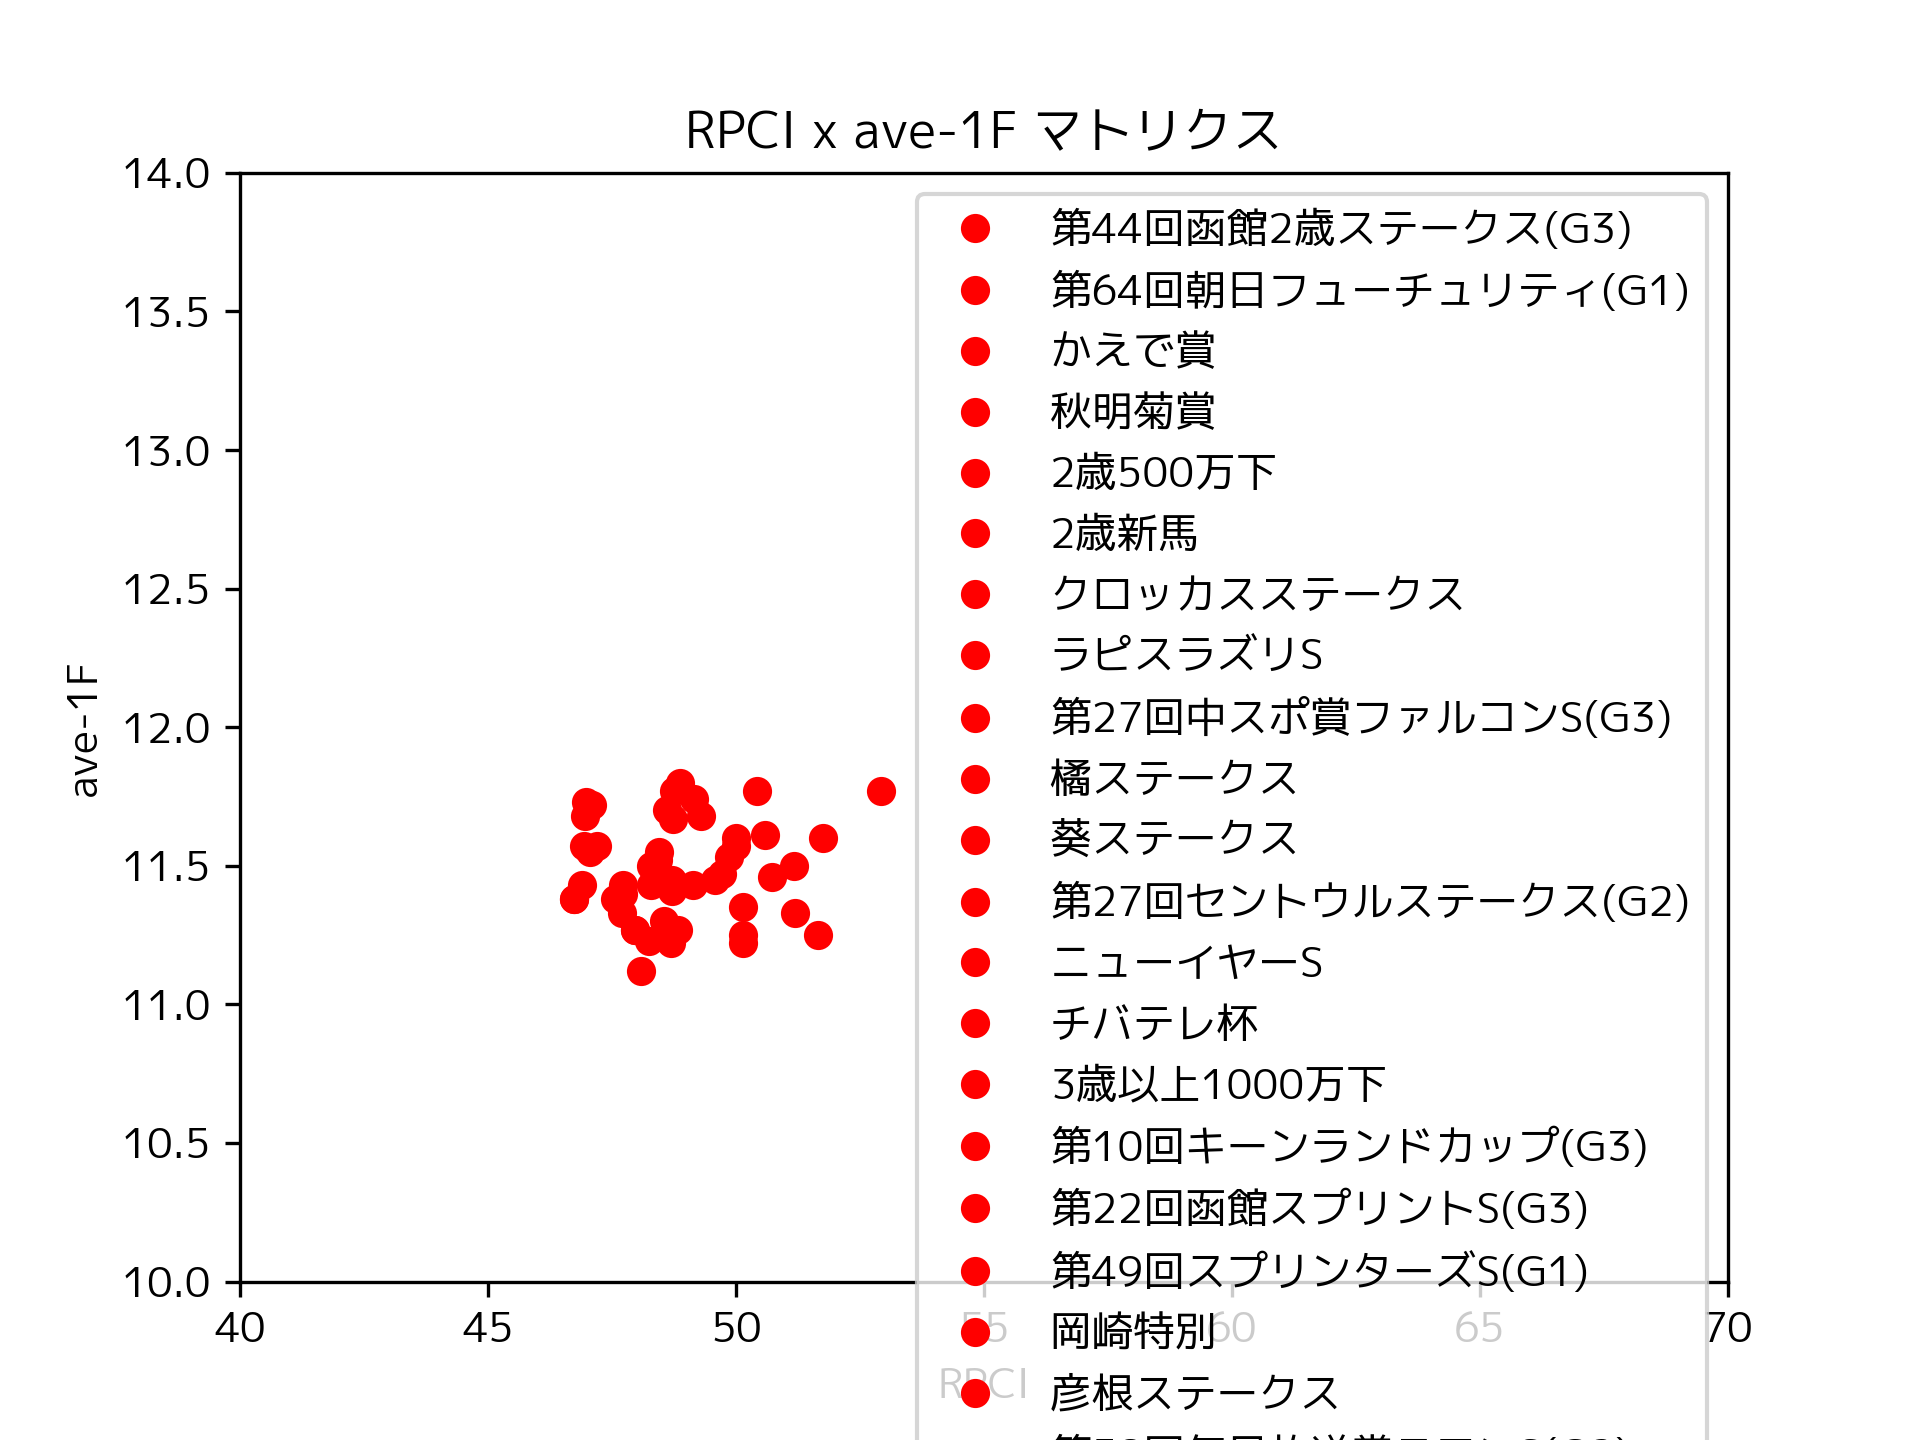
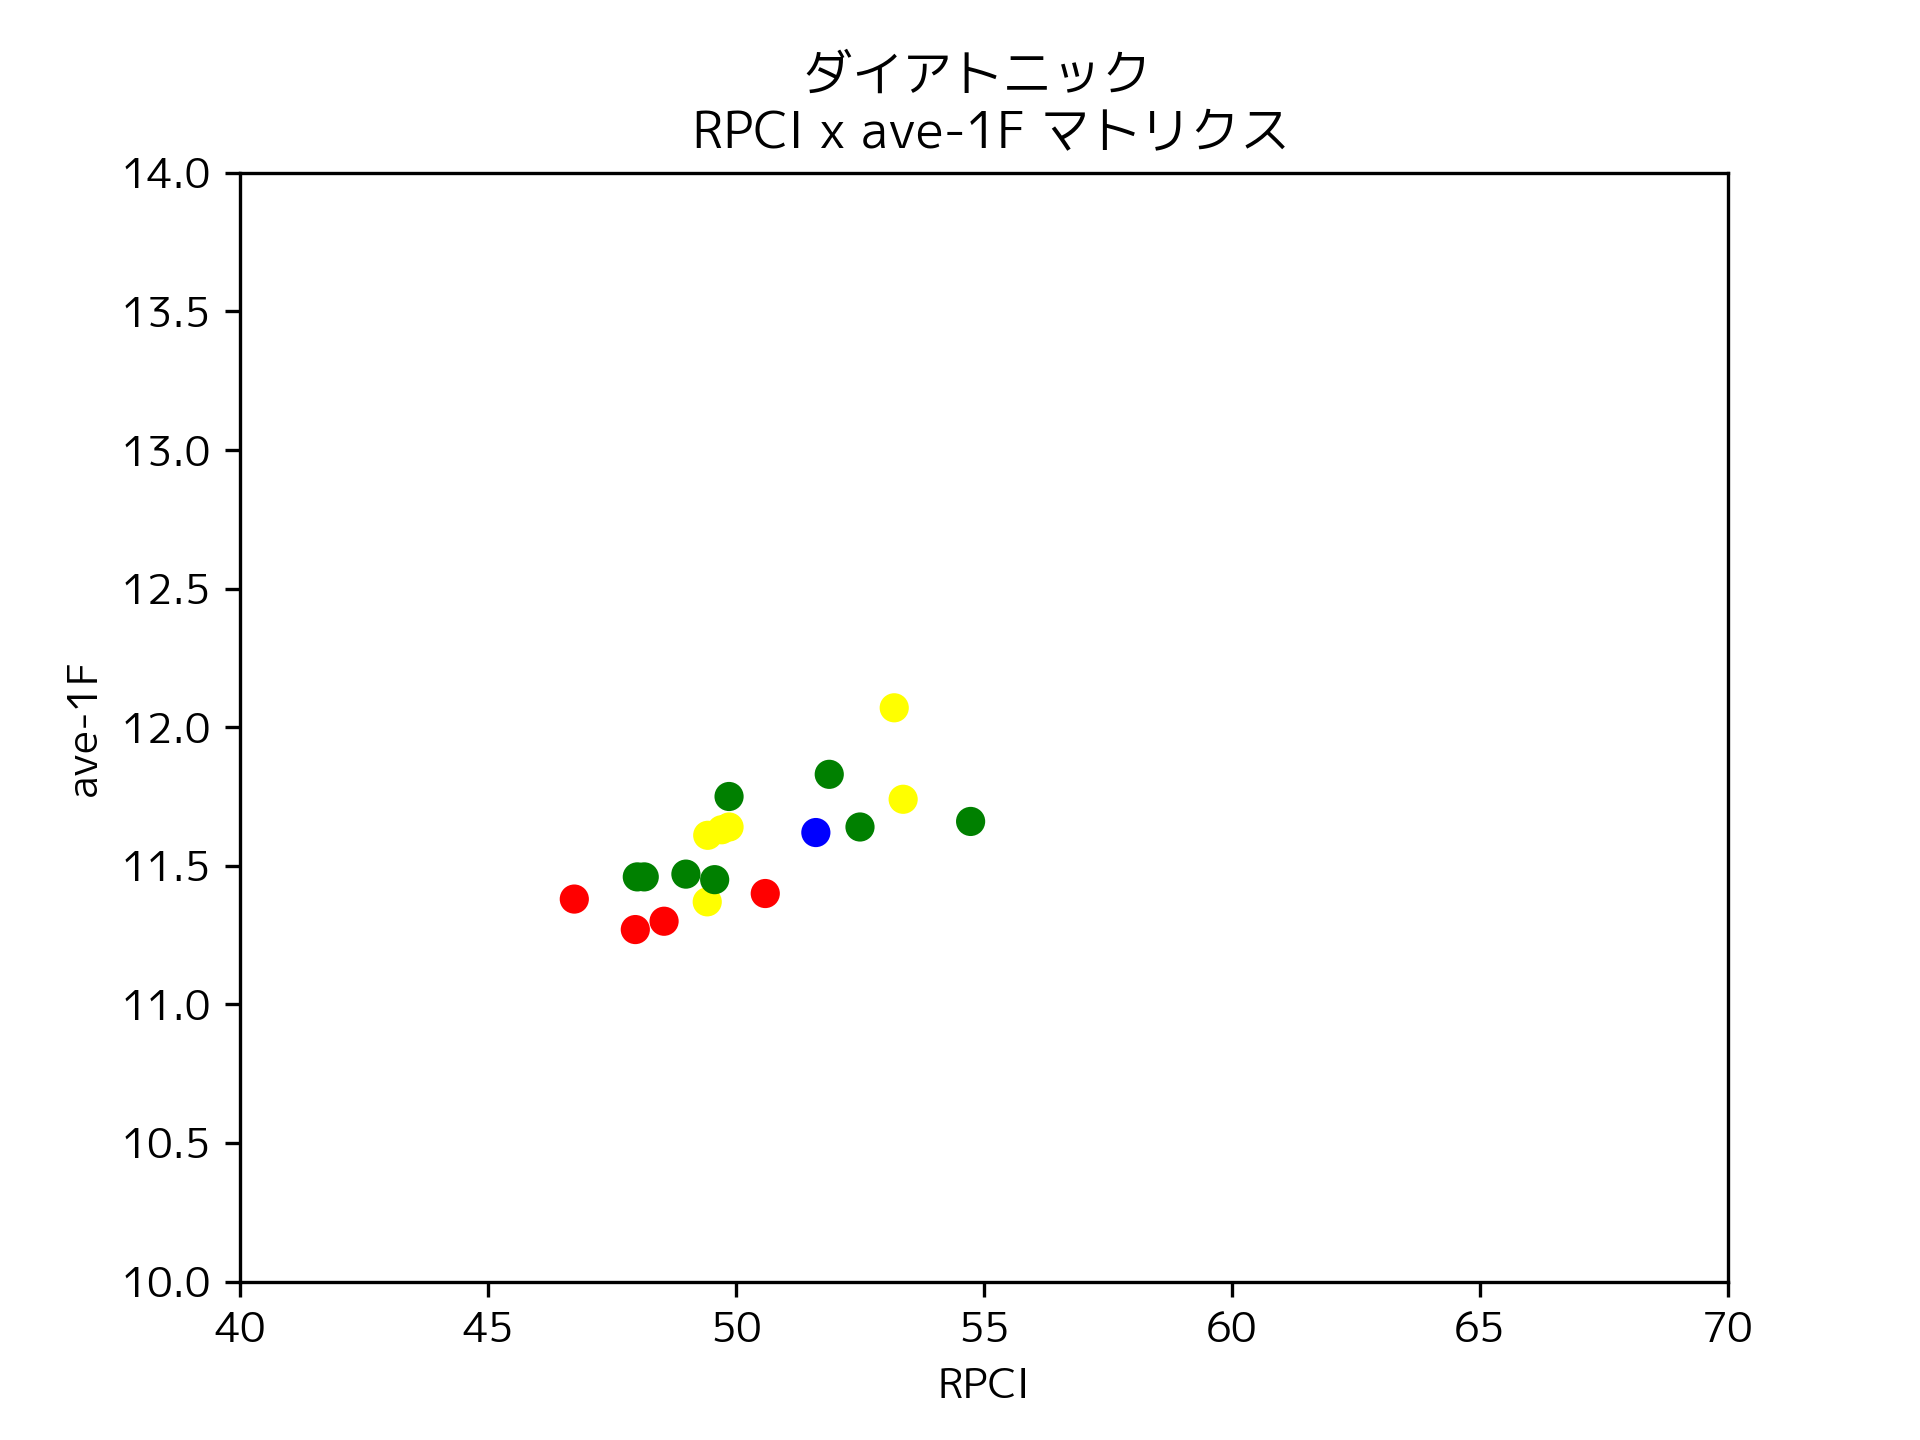
add plot module

diff --git a/analytics/make_rap_and_RPCI_plot_from_hose.py b/analytics/make_rap_and_RPCI_plot_from_hose.py
@@ -7,6 +7,8 @@ from model.hoseRaceResult import HoseRaceResult
 import matplotlib
 import matplotlib.pyplot as plt
 
+import pdb
+
 import MySQLdb
 
 def main():
@@ -25,14 +27,18 @@ def main():
     Session = sessionmaker(bind=engine)
     session = Session()
 
-    # Hose データの取得
-    hoseRaceResults = getHoseRaceResult(session, '2010100690')
+    # HoseRaceResult データの取得
+    hoseRaceResults = getHoseRaceResult(session, '2015103057')
+
+    # RaceResult　データの取得
+    raceResults = getRaceResult(session, "函館スプリント")
 
     # Session クローズ
     session.close()
 
     # グラフにプロットする
-    dataPlot(hoseRaceResults)
+    # dataPlot(hoseRaceResults)
+    dataPlot(hoseRaceResults, raceResults)
 
 def getHoseRaceResult(session, hose_id):
 
@@ -43,25 +49,95 @@ def getHoseRaceResult(session, hose_id):
 
     return hoseRaceResults
 
-def dataPlot(hoseRaceResults):
+def getRaceResult(session, raceName):
+
+    raceResults = session.query(RaceResult).filter(RaceResult.name.like(f'%{raceName}%'))
+
+    return raceResults
+
+def dataPlot(hoseRaceResults, raceResults=None):
 
     """ グラフを描画する """
 
     # 日本語フォントを有効にする
-    matplotlib.rcParams['font.sans-serif'] = 'MigMix 1P'    
+    matplotlib.rcParams['font.sans-serif'] = 'MigMix 1P'   
 
-    # dataをplotする
+    # グラフプロット
+    x = [ hoseRaceResult.RaceResult.RPCI for hoseRaceResult in hoseRaceResults ]
+    y = [ hoseRaceResult.RaceResult.ave_1F for hoseRaceResult in hoseRaceResults ]
+    names = [ f'{hoseRaceResult.RaceResult.date} {hoseRaceResult.RaceResult.name} ' for hoseRaceResult in hoseRaceResults ]
+
+    """ 
+        着差ごとにplotは色分けする 
+        　・1着 -> 黄色
+        　・~0.4s 差 -> 緑
+        　・0.4s~1.0s 差 -> 青
+        　・1.0s〜 差 -> 灰色    
+    """
+
+    colorTbl = []
     for hoseRaceResult in hoseRaceResults:
-        plt.plot(hoseRaceResult.RaceResult.RPCI, hoseRaceResult.RaceResult.ave_1F, 'ro', label=hoseRaceResult.RaceResult.name)
+        if hoseRaceResult.HoseRaceResult.rank == '1':
+            colorTbl.append('yellow')
+        elif float(hoseRaceResult.HoseRaceResult.time_diff) <= 0.4:
+            colorTbl.append('green')
+        elif float(hoseRaceResult.HoseRaceResult.time_diff) <= 1.0:
+            colorTbl.append('blue')
+        else:
+            colorTbl.append('gray')
+
+    # RaceResultsを受け取った場合はプロットする
+    if raceResults != None:
+        for raceResult in raceResults:
+            x.append(raceResult.RPCI)
+            y.append(raceResult.ave_1F)
+            names.append(f'{hoseRaceResult.RaceResult.date} {raceResult.name}')
+            colorTbl.append("red")
+
+    fig,ax = plt.subplots()
+    sc = plt.scatter(x, y, c=colorTbl)
+
+    # プロットにホバーした時、凡例を表示させる
+    annot = ax.annotate("", xy=(0,0), xytext=(20,20),textcoords="offset points",
+                    bbox=dict(boxstyle="round", fc="w"),
+                    arrowprops=dict(arrowstyle="->"))
+
+    annot.set_visible(False)
+
+    def update_annot(ind):
+
+        pos = sc.get_offsets()[ind["ind"][0]]
+        annot.xy = pos
+        text = "{}, {}".format(" ".join(list(map(str,ind["ind"]))), 
+                            " ".join([names[n] for n in ind["ind"]]))
+        annot.set_text(text)
+        annot.get_bbox_patch().set_facecolor(colorTbl[ind["ind"][0]])
+        annot.get_bbox_patch().set_alpha(0.4)
+
+
+    def hover(event):
+        vis = annot.get_visible()
+        if event.inaxes == ax:
+            cont, ind = sc.contains(event)
+            if cont:
+                update_annot(ind)
+                annot.set_visible(True)
+                fig.canvas.draw_idle()
+            else:
+                if vis:
+                    annot.set_visible(False)
+                    fig.canvas.draw_idle()
+
+    fig.canvas.mpl_connect("motion_notify_event", hover)
 
     # グラフの体裁を整える
     plt.xlabel('RPCI')
     plt.ylabel('ave-1F')
-    plt.title('RPCI x ave-1F マトリクス')
-    plt.legend(loc='best') # 凡例をいい感じの位置に配置する
+    plt.title(f'{hoseRaceResults[0].Hose.name} \n RPCI x ave-1F マトリクス')
     plt.xlim(40, 70)
     plt.ylim(10, 14)
     plt.savefig('test_hoseRaceResult.png', dpi=300)
+    plt.show()
 
 if __name__ == "__main__":
     main()

diff --git a/analytics/test_ploy.py b/analytics/test_ploy.py
@@ -1,0 +1,53 @@
+import matplotlib.pyplot as plt
+import numpy as np; np.random.seed(1)
+import pdb
+
+x = np.random.rand(15)
+y = np.random.rand(15)
+names = np.array(list("ABCDEFGHIJKLMNO"))
+c = np.random.randint(1,5,size=15)
+
+norm = plt.Normalize(1,4)
+cmap = plt.cm.RdYlGn
+
+fig,ax = plt.subplots()
+sc = plt.scatter(x,y,c=c, s=100, cmap=cmap, norm=norm)
+
+pdb.set_trace()
+
+
+annot = ax.annotate("", xy=(0,0), xytext=(20,20),textcoords="offset points",
+                    bbox=dict(boxstyle="round", fc="w"),
+                    arrowprops=dict(arrowstyle="->"))
+annot.set_visible(False)
+
+def update_annot(ind):
+
+    pos = sc.get_offsets()[ind["ind"][0]]
+    annot.xy = pos
+    text = "{}, {}".format(" ".join(list(map(str,ind["ind"]))), 
+                           " ".join([names[n] for n in ind["ind"]]))
+    annot.set_text(text)
+    annot.get_bbox_patch().set_facecolor(cmap(norm(c[ind["ind"][0]])))
+    annot.get_bbox_patch().set_alpha(0.4)
+
+
+def hover(event):
+    vis = annot.get_visible()
+    if event.inaxes == ax:
+        cont, ind = sc.contains(event)
+
+        pdb.set_trace()
+
+        if cont:
+            update_annot(ind)
+            annot.set_visible(True)
+            fig.canvas.draw_idle()
+        else:
+            if vis:
+                annot.set_visible(False)
+                fig.canvas.draw_idle()
+
+fig.canvas.mpl_connect("motion_notify_event", hover)
+
+plt.show()
